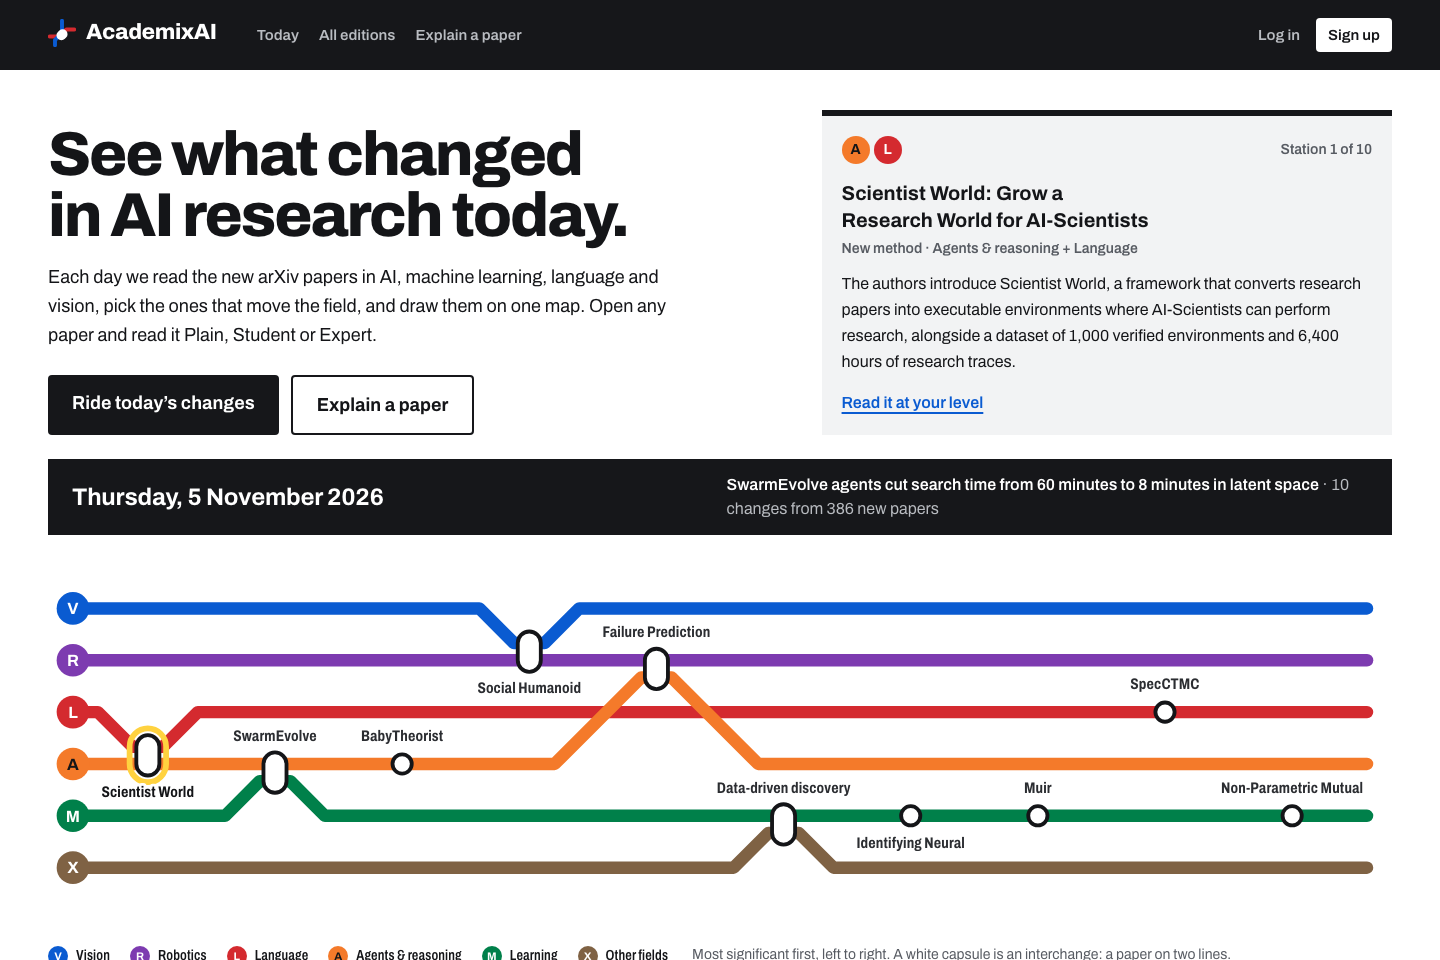
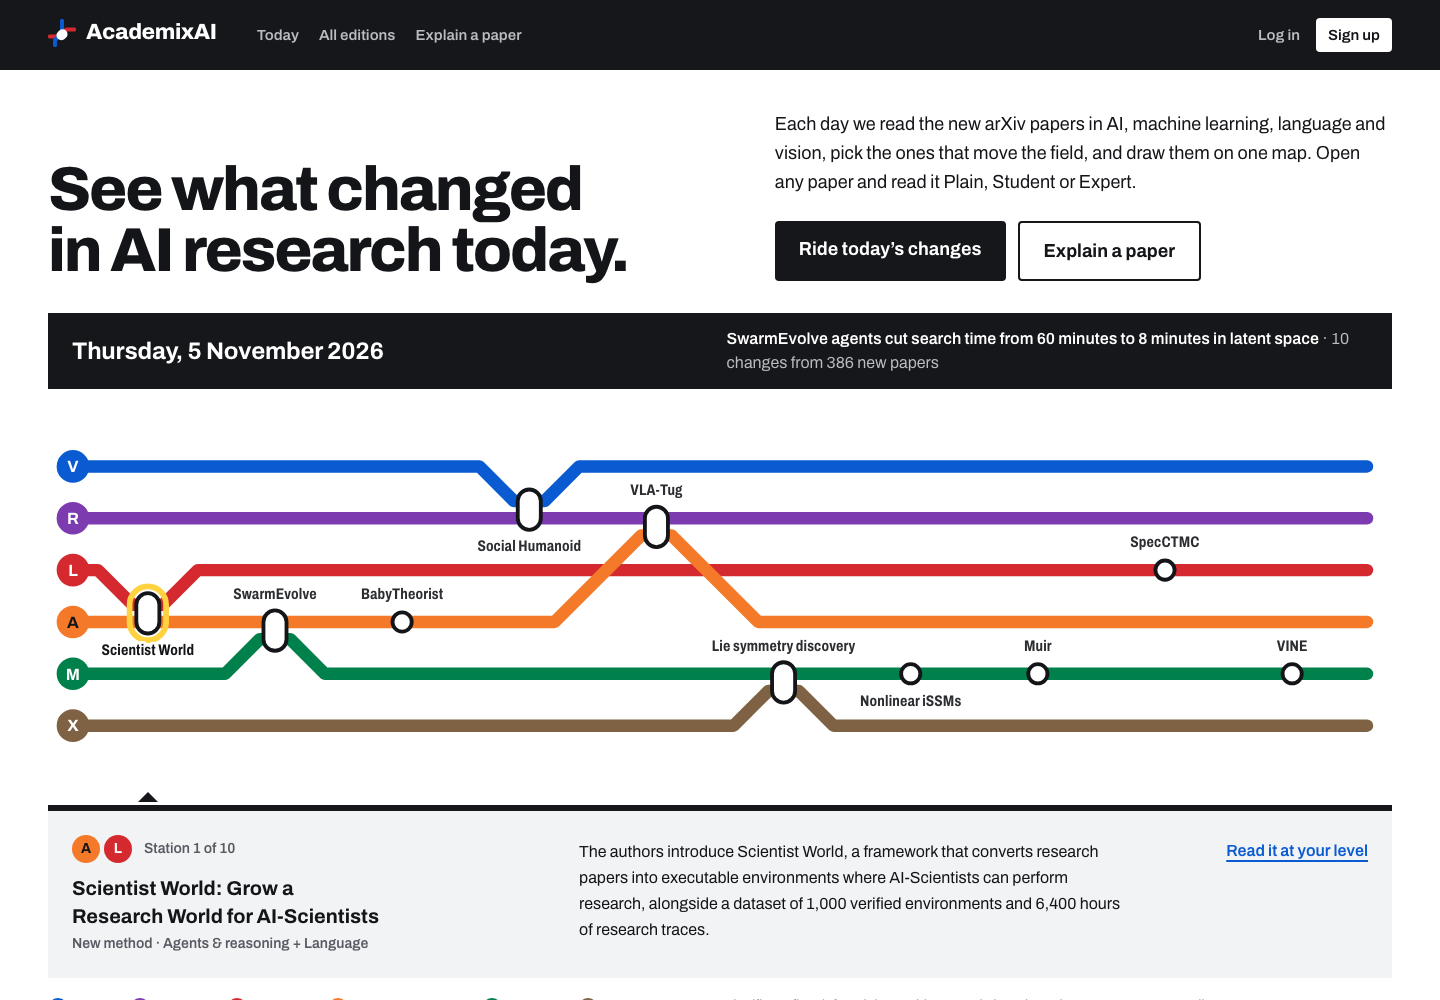
Put the station board directly under the map
The legend moves below the board so the board's notch points at the open
station rather than at a legend chip. README screenshots updated.

diff --git a/web/src/components/EditionMap.tsx b/web/src/components/EditionMap.tsx
@@ -47,8 +47,7 @@ export function EditionMap({
       <div className="mt-4 hidden md:block">
         <Diagram map={map} selected={selected} onSelect={setSelected} label={editionLabel} />
       </div>
-      <Legend lines={map.lines} />
-      <div className="relative mt-6 hidden md:block">
+      <div className="relative mt-5 hidden md:block">
         <span
           aria-hidden
           className="absolute -top-[13px] size-0 border-x-[10px] border-b-[10px] border-x-transparent border-b-band transition-[left] duration-250 ease-[cubic-bezier(0.22,1,0.36,1)]"
@@ -56,6 +55,7 @@ export function EditionMap({
         />
         <StationBoard station={current} total={map.stations.length} />
       </div>
+      <Legend lines={map.lines} />
       <StripMap stations={map.stations} label={editionLabel} />
     </div>
   );
